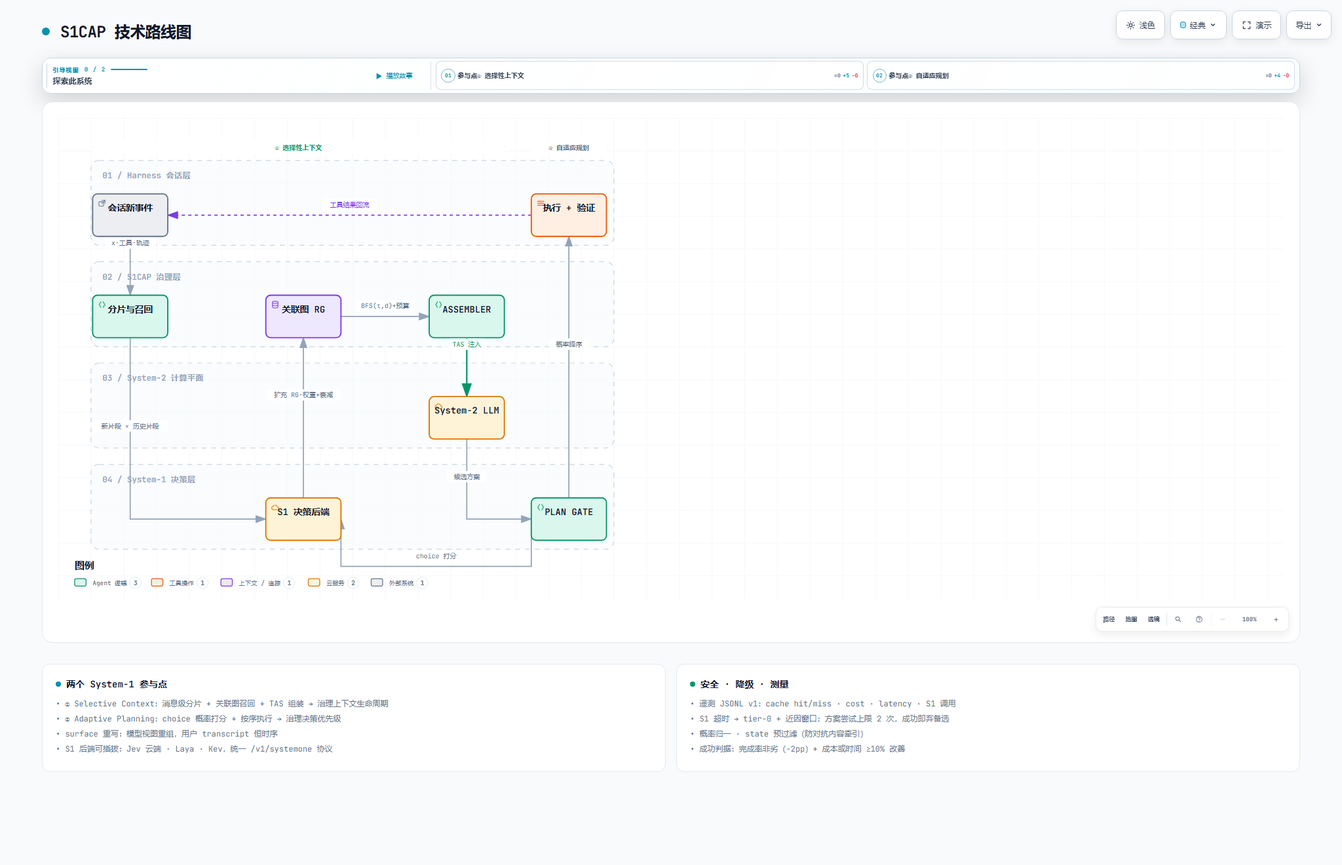
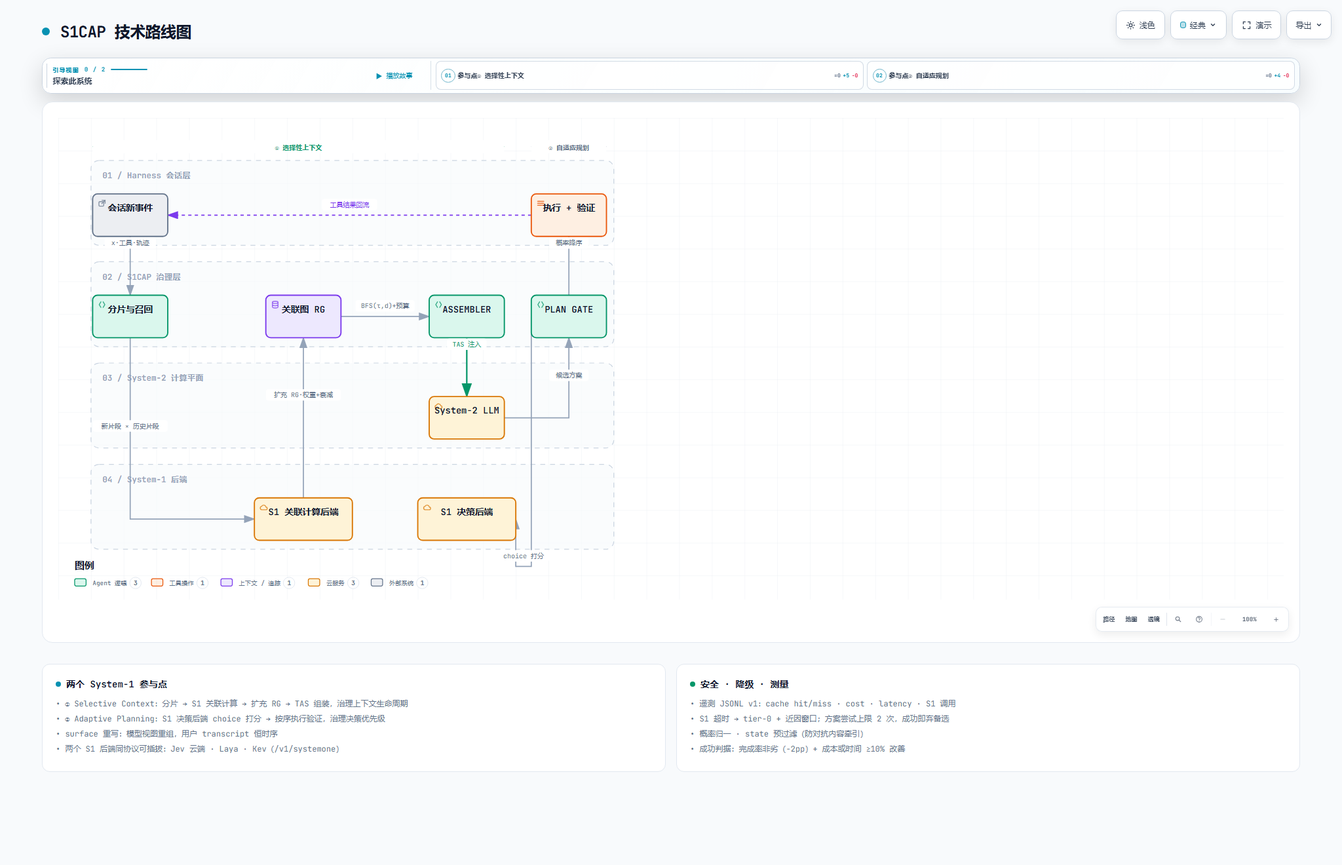
fix(figures): split System-1 into two backends per design
- S1 association backend (relevance scoring p x h_i -> RG expansion) and S1 decision backend (choice scoring for plan ranking) are now separate nodes
- edge flow: segrec -> S1 assoc -> RG expansion -> ASSEMBLER
- docs: name the two backends consistently (FORMULAS, PROPOSAL, AGENT_BRIEF headings)
- notation: attempt cap is M (=2), candidate plans m (<=3)

diff --git a/docs/figures/s1cap-technical-route.html b/docs/figures/s1cap-technical-route.html
@@ -4959,7 +4959,7 @@
       </div>
     </div>
 
-    <script id="archify-guided-views-data" type="application/json">[{"id":"selective-context","label":"参与点① 选择性上下文","focus":["x-event","segrec","rg","assembler","s1backend"],"note":"关联图召回与 TAS 组装——治理上下文生命周期"},{"id":"adaptive-planning","label":"参与点② 自适应规划","focus":["llm","plangate","s1backend","execute"],"note":"choice 概率打分与按序执行验证——治理决策优先级"}]</script>
+    <script id="archify-guided-views-data" type="application/json">[{"id":"selective-context","label":"参与点① 选择性上下文","focus":["x-event","segrec","s1assoc","rg","assembler"],"note":"关联图召回与 TAS 组装——治理上下文生命周期"},{"id":"adaptive-planning","label":"参与点② 自适应规划","focus":["llm","plangate","s1decide","execute"],"note":"choice 概率打分与按序执行验证——治理决策优先级"}]</script>
 
     <script id="archify-i18n-data" type="application/json">{"locale":"zh-CN","messages":{"viewer.kind.frontend":"前端","viewer.kind.backend":"后端","viewer.kind.database":"数据库","viewer.kind.cloud":"云服务","viewer.kind.security":"安全","viewer.kind.messagebus":"消息总线","viewer.kind.external":"外部系统","viewer.kind.neutral":"中性","viewer.kind.node":"节点","viewer.kind.start":"开始","viewer.kind.active":"活动","viewer.kind.waiting":"等待","viewer.kind.decision":"决策","viewer.kind.success":"成功","viewer.kind.failure":"失败","viewer.toolbar.actions":"图表操作","viewer.theme.toggle.title":"切换主题（T）","viewer.theme.toggle":"切换颜色主题","viewer.theme.dark":"深色","viewer.theme.light":"浅色","viewer.preset.choose.title":"选择视觉风格（S 循环切换）","viewer.preset.choose":"选择视觉风格","viewer.preset.style":"风格","viewer.preset.menu":"视觉风格","viewer.preset.identity":"视觉表达","viewer.preset.cycles":"S 循环切换","viewer.preset.classic":"经典","viewer.preset.classic.short":"经典","viewer.preset.classic.hint":"稳定的技术默认风格","viewer.preset.flow":"信号流","viewer.preset.flow.short":"流动","viewer.preset.flow.hint":"突出动态流向","viewer.preset.blueprint":"蓝图","viewer.preset.blueprint.hint":"工程评审","viewer.preset.editorial":"编辑风格","viewer.preset.editorial.hint":"适合发布与上线说明","viewer.preset.badge.signalFlow":"信号流","viewer.preset.badge.blueprint":"蓝图 / 修订 01","viewer.preset.badge.editorial":"编辑风格 / 现场笔记","viewer.preset.badge.editorialPlate":"ARCHIFY / 图版 04","viewer.preset.current":"当前视觉风格：{style}。选择视觉风格","viewer.motion.live":"动态","viewer.motion.still":"静态","viewer.motion.pause":"暂停动效","viewer.motion.resume":"恢复动效","viewer.motion.reduced":"已根据减少动态效果偏好暂停动效","viewer.motion.hidden":"页面不可见时已暂停动效","viewer.motion.yielding":"暂停动效；当前让位于{owner}","viewer.motion.yielding.title":"动态预览已启用 · 正在让位于{owner}","viewer.owner.story":"引导故事","viewer.owner.chapter":"当前章节","viewer.owner.chapterPreview":"章节差异预览","viewer.owner.handoff":"章节交接","viewer.owner.route":"路径探测","viewer.owner.lens":"语义透镜","viewer.owner.relationship":"关系预览","viewer.owner.intent":"意图追踪","viewer.owner.focus":"语义聚焦","viewer.owner.legend":"图例预览","viewer.owner.reader":"读者交互","viewer.present.enter":"进入演示模式","viewer.present.enter.title":"演示模式（F）","viewer.present.exit":"退出演示模式","viewer.present.exit.title":"退出演示模式（F 或 Escape）","viewer.present.present":"演示","viewer.present.exit.label":"退出","viewer.export.button":"导出","viewer.export.button.title":"导出图表（E）","viewer.export.diagram":"导出图表","viewer.export.menu":"导出","viewer.export.subtitle":"便携、整洁的输出","viewer.export.share":"分享","viewer.export.shareCard":"分享卡片","viewer.export.routeShareCard":"路径分享卡片","viewer.export.reachShareCard":"可达范围分享卡片","viewer.export.copyShareCard":"复制分享卡片","viewer.export.copyDiagram":"复制图表","viewer.export.clipboardPng":"复制 PNG 到剪贴板","viewer.export.raster":"位图","viewer.export.image":"图像","viewer.export.lossless":"无损图像","viewer.export.compact":"紧凑图像","viewer.export.modern":"现代图像格式","viewer.export.vectorMotion":"矢量与动效","viewer.export.vectorMotion.heading":"矢量与动效","viewer.export.editable":"可编辑矢量图","viewer.export.motion6s":"6 秒动效","viewer.export.unsupported":"当前浏览器不支持","viewer.export.clipboardUnsupported":"当前浏览器不支持写入图片剪贴板","viewer.export.clipboardUnsupported.period":"当前浏览器不支持写入图片剪贴板。","viewer.export.clipboardUnsupported.short":"此浏览器不支持写入图片剪贴板。","viewer.export.motionUnavailable":"当前浏览器无法录制动效","viewer.export.webmUnavailable":"当前浏览器不支持 WebM","viewer.export.failed":"导出失败：{message}","viewer.export.unknownVariant":"未知的分享卡片类型：{variant}","viewer.export.routeRequired":"请先追踪路径，再导出路径分享卡片","viewer.export.reachRequired":"请先追踪编写可达范围，再导出可达范围分享卡片","viewer.export.unknown":"未知错误","viewer.export.routeFailed":"路径分享卡片导出失败：{message}","viewer.export.reachFailed":"可达范围分享卡片导出失败：{message}","viewer.export.copyFailed":"复制失败：{message}","viewer.export.copiedPng":"已将 PNG 复制到剪贴板","viewer.export.copiedShare":"已复制分享卡片","viewer.export.downloadedShare":"已下载分享卡片","viewer.export.downloadedRoute":"已下载路径分享卡片","viewer.export.downloadedReach":"已下载可达范围分享卡片","viewer.export.downloadedWebm":"已下载 WebM","viewer.export.recording":"正在录制 6 秒动效…","viewer.export.card.routeSummary.one":"路径：{source} → {target} · {count} 个有向跳转","viewer.export.card.routeSummary.other":"路径：{source} → {target} · {count} 个有向跳转","viewer.export.card.reachSummary":"从{origin}开始的编写{direction} · {nodes} · {links} · 最深 {hops}","viewer.export.card.node.one":"{count} 个节点","viewer.export.card.node.other":"{count} 个节点","viewer.export.card.link.one":"{count} 条连接","viewer.export.card.link.other":"{count} 条连接","viewer.export.card.hop.one":"{count} 跳","viewer.export.card.hop.other":"{count} 跳","viewer.export.card.routeBadge":"ARCHIFY · 路径 · {hops}","viewer.export.card.reachBadge":"ARCHIFY · {direction}可达范围","viewer.export.card.defaultBadge":"ARCHIFY · {preset} · {theme}","viewer.export.direction.upstream":"上游","viewer.export.direction.downstream":"下游","viewer.export.error.canvasUnavailable":"无法为{label}使用画布","viewer.export.error.contextUnavailable":"无法为{label}创建二维画布上下文","viewer.export.error.toBlobUnavailable":"{label}无法使用 canvas.toBlob","viewer.export.error.toBlobNull":"{label}的 canvas.toBlob 未返回数据","viewer.export.error.variantsCombined":"无法同时组合多种分享卡片类型","viewer.export.error.viewerState":"分享卡片导出无法移除临时 Viewer 状态","viewer.export.error.routeState":"路径卡片导出无法安全保留已解析路径","viewer.export.error.reachState":"可达范围卡片导出无法安全保留编写的可达范围","viewer.export.error.webmRequirements":"WebM 动效导出需要追踪动画及浏览器 MediaRecorder 支持","viewer.export.error.mediaRecorder":"MediaRecorder 录制失败","viewer.export.error.emptyWebm":"MediaRecorder 生成了空的 WebM","viewer.export.error.webmBackground":"无法为 WebM 导出加载 SVG 背景","viewer.guided.region":"图表引导视图","viewer.guided.previous":"上一个引导视图","viewer.guided.previous.title":"上一个引导视图（[）","viewer.guided.next":"下一个引导视图","viewer.guided.next.title":"下一个引导视图（]）","viewer.guided.views":"引导视图","viewer.guided.explore":"探索此系统","viewer.guided.intro":"沿精选路径逐步查看，而不改变源图表。","viewer.guided.trail":"故事轨迹","viewer.guided.beat":"节点","viewer.guided.nextBeat":"下一步","viewer.guided.play":"播放引导故事","viewer.guided.play.title":"播放引导故事（P）","viewer.guided.pause":"暂停引导故事","viewer.guided.pause.title":"暂停引导故事（P）","viewer.guided.replay":"重播引导故事","viewer.guided.replay.title":"重播引导故事（P）","viewer.guided.playStory":"播放故事","viewer.guided.pauseStory":"暂停","viewer.guided.replayStory":"重播故事","viewer.guided.motionUnavailable":"静态模式下无法播放故事","viewer.guided.enableMotion":"切换为动态模式以播放引导故事","viewer.guided.selectBeatLink":"选择故事节点以复制其精确链接","viewer.guided.copyMoment":"复制此刻","viewer.guided.momentCopied":"已复制时刻链接","viewer.guided.momentCopyFailed":"无法复制故事时刻链接","viewer.guided.copied":"已复制","viewer.guided.copyFailed":"复制失败","viewer.guided.showAll":"显示全部","viewer.guided.showAll.aria":"显示完整图表","viewer.guided.chapters":"故事章节","viewer.guided.storyTrail":"{label}的故事轨迹：{count} 个节点","viewer.guided.chapter.open":"打开第 {index}/{total} 章：{label}，{count} 个停靠点","viewer.guided.chapter.current":"当前第 {index}/{total} 章：{label}，{count} 个停靠点","viewer.guided.chapter.selectedNodes":"已选择 {count} 个节点","viewer.guided.chapter.stops":"{count} 个停靠点","viewer.guided.chapter.stop.one":"{count} 个停靠点","viewer.guided.chapter.stop.other":"{count} 个停靠点","viewer.guided.chapter.current.title":"{label} — 当前章节，{count} 个停靠点","viewer.guided.chapter.delta.expanded":"{stay} 个保留，{enter} 个进入，{leave} 个离开","viewer.guided.chapter.delta.aria":"打开第 {index}/{total} 章：{label}。章节聚焦差异：{delta}","viewer.guided.chapter.delta.title":"{label} — 章节聚焦 {delta}","viewer.guided.handoff":"{from} → {to} · 经由{label}","viewer.guided.share.chapter":"章节 {index} / {total}","viewer.guided.share.initial":"章节 01 / 01","viewer.guided.share.default":"引导章节","viewer.guided.state.ready":"就绪","viewer.guided.state.playing":"播放中","viewer.guided.state.settled":"已完成","viewer.guided.state.paused":"已暂停","viewer.guided.state.pinned":"已固定","viewer.guided.state.still":"静态","viewer.guided.share.step":"步骤 {index} / {total} · {label}","viewer.guided.share.staticMoment":"{step} · 静态时刻","viewer.guided.share.complete":"{count} 个步骤已完成 · {note}","viewer.guided.share.settled":"路径已稳定，可供阅读。","viewer.guided.share.staticPath":"{count} 个步骤 · 静态路径","viewer.guided.share.ready":"{count} 个步骤 · 就绪","viewer.guided.share.aria":"{state}，第 {index}/{total} 章：{label}。{beat}。{route}","viewer.guided.beat.start":"节点 {index} / {total} · {label} · 起点","viewer.guided.beat.forward":"节点 {index} / {total} · {from} → {to}","viewer.guided.beat.reverse":"节点 {index} / {total} · {from} → {to} · 反向编写连接","viewer.guided.beat.multiple":"节点 {index} / {total} · {from} ⇄ {to} · {count} 条编写连接","viewer.guided.beat.group":"节点 {index} / {total} · {from} · {to} · 分组 · 无直接连接","viewer.guided.beat.aria.prefix":"故事节点 {index}/{total}：{label}。","viewer.guided.beat.aria.start":"起点。","viewer.guided.beat.aria.forward":"从{from}经一条正向编写关系到达。","viewer.guided.beat.aria.reverse":"从{from}出发；编写关系实际由{to}指向{from}。","viewer.guided.beat.aria.multiple":"从{from}经 {count} 条编写关系到达；不使用任意动效。","viewer.guided.beat.aria.group":"与{from}分组展示，没有直接编写关系。","viewer.guided.caption.start":"起点","viewer.guided.caption.grouped":"分组过渡 · 无直接编写连接","viewer.guided.caption.more":" +另外 {count} 条","viewer.guided.caption.reverse":"反向编写关系","viewer.guided.caption.relationships":"{count} 条编写关系","viewer.guided.caption.relationship":"编写关系","viewer.guided.caption.direction":"编写方向：{from} → {to}","viewer.guided.caption.starting":"编写起点","viewer.guided.beatLink":"复制当前故事时刻链接：第 {index}/{total} 个节点：{label}","viewer.guided.noStory":"此图表没有编写引导故事。","viewer.guide.eyebrow":"图表指南","viewer.guide.close":"关闭图表指南","viewer.guide.inspecting":"正在检查已编译语义","viewer.guide.actions":"图表探索操作","viewer.guide.find":"查找任意节点","viewer.guide.find.hint":"搜索标签、职责、类型和稳定 ID。","viewer.guide.route":"追踪路径","viewer.guide.route.aria":"追踪有向路径","viewer.guide.route.hint":"查看两个语义节点如何按编写方向连接。","viewer.guide.map":"查看完整系统","viewer.guide.map.hint":"打开带实时视口和稳定节点的语义雷达。","viewer.guide.lens":"比较语义类型","viewer.guide.lens.hint":"统计角色、显示流量并比较直接编写的连接。","viewer.guide.story":"播放引导故事","viewer.guide.story.hint":"浏览已编写的章节和真实关系。","viewer.guide.present":"进入演示模式","viewer.guide.present.hint":"让实时图表占满视口，同时不改变导出。","viewer.guide.shortcuts":"其他键盘快捷键","viewer.guide.shortcut.export":"导出","viewer.guide.shortcut.theme":"主题","viewer.guide.shortcut.style":"风格","viewer.guide.shortcut.reset":"重置","viewer.guide.shortcut.zoomIn":"放大","viewer.guide.shortcut.zoomOut":"缩小","viewer.guide.shortcut.close":"关闭","viewer.guide.facts":"{nodes} · {relationships} · {views}","viewer.guide.fact.node.one":"{count} 个语义节点","viewer.guide.fact.node.other":"{count} 个语义节点","viewer.guide.fact.relationship.one":"{count} 条关系","viewer.guide.fact.relationship.other":"{count} 条关系","viewer.guide.fact.view.one":"{count} 个引导视图","viewer.guide.fact.view.other":"{count} 个引导视图","viewer.guide.story.available.one":"浏览 {count} 个已编写章节及其真实关系。","viewer.guide.story.available.other":"浏览 {count} 个已编写章节及其真实关系。","viewer.guide.story.unavailable":"此图表没有编写引导故事。","viewer.guide.open":"打开图表指南","viewer.guide.noStory":"此图表没有编写引导故事。","viewer.finder.title":"查找节点","viewer.finder.close":"关闭节点查找器","viewer.finder.placeholder":"搜索标签或 ID","viewer.finder.search":"搜索图表节点","viewer.finder.results":"图表节点","viewer.finder.empty":"没有匹配的节点","viewer.finder.result.focus":"聚焦{label}","viewer.finder.result.routeStart":"选择{label}作为路径起点","viewer.finder.result.routeTarget":"选择{label}作为路径终点，{links}","viewer.finder.status.empty":"没有匹配的节点","viewer.finder.status.count.one":"{count} 个匹配节点","viewer.finder.status.count.other":"{count} 个匹配节点","viewer.finder.noun.nodes":"个节点","viewer.finder.link.one":"{count} 条连接","viewer.finder.link.other":"{count} 条连接","viewer.finder.result.focus.one":"聚焦{label}，{count} 条相关连接","viewer.finder.result.focus.other":"聚焦{label}，{count} 条相关连接","viewer.finder.status.filtered":"{visible}/{available} {noun}","viewer.finder.status.all":"{available} {noun}","viewer.passport.eyebrow":"语义护照","viewer.passport.metadata":"节点元数据","viewer.passport.evidence":"已验证的源代码证据","viewer.passport.verified":"已验证来源","viewer.passport.reach":"编写可达范围","viewer.passport.reach.trace":"追踪编写的可达性","viewer.passport.upstream":"上游","viewer.passport.downstream":"下游","viewer.passport.upstream.trace":"追踪上游编写可达性","viewer.passport.downstream.trace":"追踪下游编写可达性","viewer.passport.close":"关闭语义护照","viewer.passport.copy":"复制链接","viewer.passport.copy.focus":"复制聚焦节点的链接","viewer.passport.relations":"关系","viewer.passport.relations.show":"显示关联关系","viewer.passport.relations.hide":"隐藏关联关系","viewer.passport.relations.list":"关联关系","viewer.passport.copyRelation":"复制关系","viewer.passport.copyNode":"复制节点","viewer.passport.copyPinned":"复制固定关系的链接","viewer.passport.copySource":"复制来源节点的链接","viewer.passport.copy.focused.success":"已复制聚焦节点链接","viewer.passport.copy.pinned.success":"已复制固定关系链接","viewer.passport.copy.focused.failed":"无法复制聚焦节点链接","viewer.passport.copy.pinned.failed":"无法复制固定关系链接","viewer.passport.relationship.none":"没有关联关系","viewer.passport.relationship.count.one":"{count} 条关系","viewer.passport.relationship.count.other":"{count} 条关系","viewer.passport.relationship.show.one":"显示 {count} 条关联关系","viewer.passport.relationship.show.other":"显示 {count} 条关联关系","viewer.passport.relationship.summary":"{out} 条出向 · {in} 条入向{loops}","viewer.passport.relationship.loops":" · {count} 条自环","viewer.passport.relationship.explorer":"直接关系浏览器","viewer.passport.relationship.help":"使用方向键浏览关系。按 Enter 或空格键固定详情；按 Escape 清除。","viewer.passport.relationship.loopsBack":"回环","viewer.passport.relationship.connectsTo":"连接到","viewer.passport.relationship.connectsFrom":"连接自","viewer.passport.relationship.pinned":"已固定关系 · {from} → {to} · {label}","viewer.passport.relationship.inspect":"检查第 {index}/{total} 条关系：{from} 到 {to}，{label}。按 Enter 查看详情。","viewer.passport.relationship.group.out":"出向","viewer.passport.relationship.group.in":"入向","viewer.passport.relationship.group.loop":"自环","viewer.passport.relationship.row":"{group}：{relationship}，{neighbor}","viewer.passport.relationship.direction.out":"出 →","viewer.passport.relationship.direction.in":"← 入","viewer.passport.relationship.direction.loop":"自环","viewer.passport.sourceCount.one":"{count} 个已验证来源引用","viewer.passport.sourceCount.other":"{count} 个已验证来源引用","viewer.passport.sourceMarker":"来源","viewer.passport.beacon.one":"{count} 个已验证来源；聚焦此节点以检查","viewer.passport.beacon.other":"{count} 个已验证来源；聚焦此节点以检查","viewer.passport.repository.open":"打开已验证的仓库修订版本 {revision}","viewer.passport.source.open":"打开修订版本 {revision} 中已验证的来源 {path}","viewer.passport.source.openLink":"打开 ↗","viewer.passport.reach.upstream.one":"追踪 {count} 个上游编写节点","viewer.passport.reach.upstream.other":"追踪 {count} 个上游编写节点","viewer.passport.reach.downstream.one":"追踪 {count} 个下游编写节点","viewer.passport.reach.downstream.other":"追踪 {count} 个下游编写节点","viewer.passport.reach.noUpstream":"没有上游编写节点","viewer.passport.reach.noDownstream":"没有下游编写节点","viewer.passport.reach.status":"{direction} · {nodes} 个节点 · {links} 条连接 · 最深 {hops} 跳","viewer.route.eyebrow":"路径探测","viewer.route.start":"选择起点节点","viewer.route.start.find":"查找起点","viewer.route.start.find.aria":"查找路径起点","viewer.route.copy":"复制链接","viewer.route.copy.aria":"复制已追踪路径的链接","viewer.route.clear":"清除","viewer.route.clear.aria":"清除路径探测","viewer.route.traced":"已追踪路径","viewer.route.pickTwo":"在图表中选择两个语义节点","viewer.route.pickOne":"在图表中选择一个语义节点","viewer.route.controls":"路径旅程控制","viewer.route.previous":"上一个路径位置","viewer.route.play":"播放路径旅程","viewer.route.pause":"暂停路径旅程","viewer.route.replay":"重播路径旅程","viewer.route.next":"下一个路径位置","viewer.route.journey":"旅程","viewer.route.pause.label":"暂停","viewer.route.replay.label":"重播","viewer.route.overview":"总览","viewer.route.overview.aria":"显示完整路径总览","viewer.route.instructions":"先选择来源，再选择目标；方向很重要。","viewer.route.destination":"选择从{label}出发的目标","viewer.route.destination.find":"查找目标","viewer.route.destination.find.aria":"查找可达的路径目标","viewer.route.differentDestination":"选择其他目标","viewer.route.distinct":"一条路径需要两个不同的语义节点。","viewer.route.unreachable":"没有通往{label}的有向路径","viewer.route.unreachable.detail":"从{source}无法到达{target}。请选择高亮的目标。","viewer.route.start.instructions":"选择来源。下一步只会显示有向可达的目标。","viewer.route.copy.success":"已复制路径链接","viewer.route.copy.failed":"无法复制路径链接","viewer.route.position":"路径位置 {index}/{total}：{label}","viewer.route.step":"第 {index}/{total} 步 · {phase} · {label}","viewer.route.motionRequired":"自动旅程需要动态模式","viewer.route.trigger.clear":"清除已追踪路径","viewer.route.overview.status":"{nodes} · {hops} · 最短编写路径","viewer.route.overview.node.one":"{count} 个节点","viewer.route.overview.node.other":"{count} 个节点","viewer.route.overview.hop.one":"{count} 个有向跳转","viewer.route.overview.hop.other":"{count} 个有向跳转","viewer.route.phase.playing":"播放中","viewer.route.phase.complete":"已完成","viewer.route.phase.inspecting":"检查中","viewer.route.destination.count.one":"有 {count} 个有向目标可用。请选择高亮节点。","viewer.route.destination.count.other":"有 {count} 个有向目标可用。请选择高亮节点。","viewer.route.noOutgoing":"此处没有可用的出向路径。请清除后选择其他来源。","viewer.route.result.title":"{source} 到 {target}","viewer.route.finder.source.title":"选择路径起点","viewer.route.finder.source.placeholder":"搜索路径来源","viewer.route.finder.source.empty":"没有匹配的路径来源","viewer.route.finder.source.results":"可作为路径起点的节点","viewer.route.finder.source.noun":"个路径来源","viewer.route.finder.source.badge":"起点","viewer.route.finder.target.title":"从{label}出发的目标","viewer.route.finder.target.placeholder":"搜索可达目标","viewer.route.finder.target.empty":"没有匹配的可达目标","viewer.route.finder.target.results":"可达路径目标","viewer.route.finder.target.noun":"个可达目标","viewer.route.hop.one":"{count} 跳","viewer.route.hop.other":"{count} 跳","viewer.lens.eyebrow":"语义透镜","viewer.lens.title":"比较系统角色","viewer.lens.close":"关闭语义透镜","viewer.lens.instruction":"最多选择两种语义类型。选择一种可显示其真实流量；选择两种只比较直接编写的关系。","viewer.lens.kinds":"语义类型","viewer.lens.choose":"选择一种类型以检查其节点和相连关系。","viewer.lens.copy":"复制语义透镜链接","viewer.lens.clear":"清除语义透镜","viewer.lens.open":"打开语义透镜","viewer.lens.openActive":"打开当前语义透镜","viewer.lens.legend":"语义图例","viewer.lens.legend.inspect.one":"检查{label}，{count} 个节点","viewer.lens.legend.inspect.other":"检查{label}，{count} 个节点","viewer.lens.kind.count.one":"{label}，{count} 个节点","viewer.lens.kind.count.other":"{label}，{count} 个节点","viewer.lens.compare.one":"{first} → {second}：{forward} · {second} → {first}：{reverse} · 共 {count} 条直接关系","viewer.lens.compare.other":"{first} → {second}：{forward} · {second} → {first}：{reverse} · 共 {count} 条直接关系","viewer.lens.single":"{nodes} · {relationships} · 已连接节点保持可见","viewer.lens.node.one":"{count} 个{label}节点","viewer.lens.node.other":"{count} 个{label}节点","viewer.lens.relationship.one":"{count} 条相连关系","viewer.lens.relationship.other":"{count} 条相连关系","viewer.radar.title":"语义雷达","viewer.radar.building":"正在构建总览","viewer.radar.openFull":"打开完整语义雷达","viewer.radar.open":"打开雷达","viewer.radar.close":"关闭语义雷达","viewer.radar.surface":"图表总览。点击节点进行聚焦，或使用方向键平移。","viewer.radar.click":"点击节点","viewer.radar.drag":"拖动平移","viewer.radar.space":"语义雷达需要更多地图可见空间。","viewer.radar.nodes":"语义图表雷达节点","viewer.radar.focus":"从语义雷达聚焦{label}","viewer.radar.status":"{count} 个节点 · {viewport}","viewer.radar.fullMap":"{count} 个节点 · 完整地图","viewer.radar.compacted":"已收紧雷达，避免遮挡语义护照或地图控件。","viewer.radar.cancelWaiting":"取消等待更多地图空间的语义雷达","viewer.radar.needsSpace":"语义雷达需要更多可见地图空间","viewer.radar.viewport.full":"完整地图","viewer.radar.viewport.width":"宽度 {percent}%","viewer.radar.viewport.scale":"视口 {percent}%","viewer.nav.controls":"图表视图控制","viewer.nav.route":"追踪有向路径","viewer.nav.route.title":"追踪路径（R）","viewer.nav.route.short":"路径","viewer.nav.radar":"打开语义雷达","viewer.nav.radar.title":"语义雷达（M）","viewer.nav.radar.short":"地图","viewer.nav.lens":"打开语义透镜","viewer.nav.lens.title":"语义透镜（L）","viewer.nav.lens.short":"透镜","viewer.nav.find":"查找节点","viewer.nav.find.title":"查找节点（/）","viewer.nav.guide":"打开图表指南","viewer.nav.guide.title":"图表指南（?）","viewer.nav.zoomOut":"缩小","viewer.nav.zoomOut.title":"缩小（-）","viewer.nav.reset":"重置图表视图","viewer.nav.reset.title":"重置视图（0）","viewer.nav.read":"阅读","viewer.nav.zoomIn":"放大","viewer.nav.zoomIn.title":"放大（+）","viewer.nav.camera":"{hint}。重置图表视图","viewer.nav.camera.title":"{semantic}{hint} · 重置视图（0）","viewer.nav.camera.semantic":"语义相机已启用 · ","viewer.nav.level.map":"概览","viewer.nav.level.read":"阅读","viewer.nav.level.full":"完整","viewer.nav.level.auto":"自动","viewer.nav.detail.map":"放大以显示关系标签和节点上下文","viewer.nav.detail.read":"再次放大以显示标签和注释","viewer.nav.detail.full":"完整图表详情","viewer.intent.summary":"{label}。{out} 条出向，{in} 条入向{loops}。共 {total} 条连接。按 Enter 查看详情。","viewer.intent.loops":"，{count} 条自环","viewer.common.copied":"已复制","viewer.common.copyFailed":"复制失败","viewer.common.copyLink":"复制链接","viewer.common.clear":"清除","viewer.common.close":"关闭"}}</script>
     <div class="guided-views no-print" id="guided-views" hidden aria-label="图表引导视图">
@@ -5040,7 +5040,7 @@
         <text x="54" y="322" class="t-dim" font-size="10" font-weight="600">03 / System-2 计算平面</text>
 
         <rect data-graph-role="structural-frame" data-composition-frame-kind="lane" data-composition-frame-id="lane-3" x="40" y="424" width="640" height="104" rx="10" class="c-lane" stroke-width="1"/>
-        <text x="54" y="446" class="t-dim" font-size="10" font-weight="600">04 / System-1 决策层</text>
+        <text x="54" y="446" class="t-dim" font-size="10" font-weight="600">04 / System-1 后端</text>
 
         <!-- Phase headers -->
         <line x1="42" y1="35" x2="546" y2="35" class="a-emphasis" stroke-width="1.1"/>
@@ -5055,14 +5055,14 @@
 
         <!-- Edge paths -->
         <path data-edge-from="x-event" data-edge-to="segrec" data-edge-label="x·工具·轨迹" data-edge-key="0" data-edge-id="e1" data-composition-points="88,145;88,166;88,166;88,217" d="M 88 145 L 88 166 L 88 166 L 88 217" class="a-default" stroke-width="1.4" marker-end="url(#arrowhead)"/>
-        <path data-edge-from="segrec" data-edge-to="s1backend" data-edge-label="新片段 × 历史片段" data-edge-key="1" data-edge-id="e2" data-composition-points="88,269;88,491;254,491" d="M 88 269 L 88 491 L 254 491" class="a-default" stroke-width="1.4" marker-end="url(#arrowhead)"/>
+        <path data-edge-from="segrec" data-edge-to="s1assoc" data-edge-label="新片段 × 历史片段" data-edge-key="1" data-edge-id="e2" data-composition-points="88,269;88,491;240,491" d="M 88 269 L 88 491 L 240 491" class="a-default" stroke-width="1.4" marker-end="url(#arrowhead)"/>
         <path data-edge-from="rg" data-edge-to="assembler" data-edge-label="BFS(τ,d)+预算" data-edge-key="2" data-edge-id="e3" data-composition-points="346,243;454,243" d="M 346 243 L 454 243" class="a-default" stroke-width="1.4" marker-end="url(#arrowhead)"/>
         <path data-edge-from="assembler" data-edge-to="llm" data-edge-label="TAS 注入" data-edge-key="3" data-edge-id="e4" data-composition-points="500,269;500,290;500,290;500,341" d="M 500 269 L 500 290 L 500 290 L 500 341" class="a-emphasis" stroke-width="1.8" marker-end="url(#arrowhead-emphasis)"/>
-        <path data-edge-from="llm" data-edge-to="plangate" data-edge-label="候选方案" data-edge-key="4" data-edge-id="e5" data-composition-points="500,393;500,491;579,491" d="M 500 393 L 500 491 L 579 491" class="a-default" stroke-width="1.4" marker-end="url(#arrowhead)"/>
-        <path data-edge-from="plangate" data-edge-to="s1backend" data-edge-label="choice 打分" data-edge-key="5" data-edge-id="e6" data-composition-points="579,491;579,549;346,549;346,491" d="M 579 491 L 579 549 L 346 549 L 346 491" class="a-default" stroke-width="1.4" marker-end="url(#arrowhead)"/>
-        <path data-edge-from="plangate" data-edge-to="execute" data-edge-label="概率降序" data-edge-key="6" data-edge-id="e7" data-composition-points="625,465;625,290;625,290;625,145" d="M 625 465 L 625 290 L 625 290 L 625 145" class="a-default" stroke-width="1.4" marker-end="url(#arrowhead)"/>
+        <path data-edge-from="llm" data-edge-to="plangate" data-edge-label="候选方案" data-edge-key="4" data-edge-id="e5" data-composition-points="546,367;625,367;625,269" d="M 546 367 L 625 367 L 625 269" class="a-default" stroke-width="1.4" marker-end="url(#arrowhead)"/>
+        <path data-edge-from="plangate" data-edge-to="s1decide" data-edge-label="choice 打分" data-edge-key="5" data-edge-id="e6" data-composition-points="579,243;579,549;560,549;560,491" d="M 579 243 L 579 549 L 560 549 L 560 491" class="a-default" stroke-width="1.4" marker-end="url(#arrowhead)"/>
+        <path data-edge-from="plangate" data-edge-to="execute" data-edge-label="概率降序" data-edge-key="6" data-edge-id="e7" data-composition-points="625,217;625,166;625,166;625,145" d="M 625 217 L 625 166 L 625 166 L 625 145" class="a-default" stroke-width="1.4" marker-end="url(#arrowhead)"/>
         <path data-edge-from="execute" data-edge-to="x-event" data-edge-label="工具结果回流" data-edge-key="7" data-edge-id="e8" data-composition-points="579,119;134,119" d="M 579 119 L 134 119" class="a-dashed" stroke-width="1.4" marker-end="url(#arrowhead-dashed)"/>
-        <path data-edge-from="s1backend" data-edge-to="rg" data-edge-label="扩充 RG·权重+衰减" data-edge-key="8" data-edge-id="e9" data-composition-points="300,465;300,352;300,352;300,269" d="M 300 465 L 300 352 L 300 352 L 300 269" class="a-default" stroke-width="1.4" marker-end="url(#arrowhead)"/>
+        <path data-edge-from="s1assoc" data-edge-to="rg" data-edge-label="扩充 RG·权重+衰减" data-edge-key="8" data-edge-id="e9" data-composition-points="300,465;300,352;300,352;300,269" d="M 300 465 L 300 352 L 300 352 L 300 269" class="a-default" stroke-width="1.4" marker-end="url(#arrowhead)"/>
 
         <!-- Nodes -->
         <g id="node-x-event" data-node-id="x-event" data-node-label="会话新事件" tabindex="0" role="button" aria-label="聚焦会话新事件，Harness 会话层 › ① 选择性上下文" aria-pressed="false" data-node-kind="external" data-node-context="Harness 会话层 › ① 选择性上下文">
@@ -5117,14 +5117,14 @@
           <text data-node-label="" x="500" y="362" class="t-primary" font-size="11" font-weight="600" text-anchor="middle">System-2 LLM</text>
         </g>
 
-        <g id="node-plangate" data-node-id="plangate" data-node-label="PLAN GATE" tabindex="0" role="button" aria-label="聚焦PLAN GATE，System-1 决策层 › ② 自适应规划" aria-pressed="false" data-node-kind="backend" data-node-context="System-1 决策层 › ② 自适应规划">
-          <title>PLAN GATE · System-1 决策层 › ② 自适应规划</title>
-          <rect x="579" y="465" width="92" height="52" rx="6" class="c-mask"/>
-          <rect x="579" y="465" width="92" height="52" rx="6" class="c-backend" stroke-width="1.5"/>
-          <g aria-hidden="true" data-semantic-sigil="backend" class="semantic-sigil s-backend" transform="translate(585 471) scale(0.6875)">
+        <g id="node-plangate" data-node-id="plangate" data-node-label="PLAN GATE" tabindex="0" role="button" aria-label="聚焦PLAN GATE，S1CAP 治理层 › ② 自适应规划" aria-pressed="false" data-node-kind="backend" data-node-context="S1CAP 治理层 › ② 自适应规划">
+          <title>PLAN GATE · S1CAP 治理层 › ② 自适应规划</title>
+          <rect x="579" y="217" width="92" height="52" rx="6" class="c-mask"/>
+          <rect x="579" y="217" width="92" height="52" rx="6" class="c-backend" stroke-width="1.5"/>
+          <g aria-hidden="true" data-semantic-sigil="backend" class="semantic-sigil s-backend" transform="translate(585 223) scale(0.6875)">
             <path d="M6 3 3 8l3 5M10 3l3 5-3 5"/>
           </g>
-          <text data-node-label="" x="625" y="486" class="t-primary" font-size="11" font-weight="600" text-anchor="middle">PLAN GATE</text>
+          <text data-node-label="" x="625" y="238" class="t-primary" font-size="11" font-weight="600" text-anchor="middle">PLAN GATE</text>
         </g>
 
         <g id="node-execute" data-node-id="execute" data-node-label="执行 + 验证" tabindex="0" role="button" aria-label="聚焦执行 + 验证，Harness 会话层 › ② 自适应规划" aria-pressed="false" data-node-kind="messagebus" data-node-context="Harness 会话层 › ② 自适应规划">
@@ -5140,14 +5140,24 @@
           <text data-node-label="" x="625" y="114" class="t-primary" font-size="11" font-weight="600" text-anchor="middle">执行 + 验证</text>
         </g>
 
-        <g id="node-s1backend" data-node-id="s1backend" data-node-label="S1 决策后端" tabindex="0" role="button" aria-label="聚焦S1 决策后端，System-1 决策层 › ① 选择性上下文" aria-pressed="false" data-node-kind="cloud" data-node-context="System-1 决策层 › ① 选择性上下文">
-          <title>S1 决策后端 · System-1 决策层 › ① 选择性上下文</title>
-          <rect x="254" y="465" width="92" height="52" rx="6" class="c-mask"/>
-          <rect x="254" y="465" width="92" height="52" rx="6" class="c-cloud" stroke-width="1.5"/>
-          <g aria-hidden="true" data-semantic-sigil="cloud" class="semantic-sigil s-cloud" transform="translate(260 471) scale(0.6875)">
+        <g id="node-s1assoc" data-node-id="s1assoc" data-node-label="S1 关联计算后端" tabindex="0" role="button" aria-label="聚焦S1 关联计算后端，System-1 后端 › ① 选择性上下文" aria-pressed="false" data-node-kind="cloud" data-node-context="System-1 后端 › ① 选择性上下文">
+          <title>S1 关联计算后端 · System-1 后端 › ① 选择性上下文</title>
+          <rect x="240" y="465" width="120" height="52" rx="6" class="c-mask"/>
+          <rect x="240" y="465" width="120" height="52" rx="6" class="c-cloud" stroke-width="1.5"/>
+          <g aria-hidden="true" data-semantic-sigil="cloud" class="semantic-sigil s-cloud" transform="translate(246 471) scale(0.6875)">
             <path d="M4.3 12.5h7.3a2.4 2.4 0 0 0 .2-4.8 4 4 0 0 0-7.5-1.3A3.1 3.1 0 0 0 4.3 12.5Z"/>
           </g>
-          <text data-node-label="" x="300" y="486" class="t-primary" font-size="11" font-weight="600" text-anchor="middle">S1 决策后端</text>
+          <text data-node-label="" x="300" y="486" class="t-primary" font-size="11" font-weight="600" text-anchor="middle">S1 关联计算后端</text>
+        </g>
+
+        <g id="node-s1decide" data-node-id="s1decide" data-node-label="S1 决策后端" tabindex="0" role="button" aria-label="聚焦S1 决策后端，System-1 后端 › ① 选择性上下文" aria-pressed="false" data-node-kind="cloud" data-node-context="System-1 后端 › ① 选择性上下文">
+          <title>S1 决策后端 · System-1 后端 › ① 选择性上下文</title>
+          <rect x="440" y="465" width="120" height="52" rx="6" class="c-mask"/>
+          <rect x="440" y="465" width="120" height="52" rx="6" class="c-cloud" stroke-width="1.5"/>
+          <g aria-hidden="true" data-semantic-sigil="cloud" class="semantic-sigil s-cloud" transform="translate(446 471) scale(0.6875)">
+            <path d="M4.3 12.5h7.3a2.4 2.4 0 0 0 .2-4.8 4 4 0 0 0-7.5-1.3A3.1 3.1 0 0 0 4.3 12.5Z"/>
+          </g>
+          <text data-node-label="" x="500" y="486" class="t-primary" font-size="11" font-weight="600" text-anchor="middle">S1 决策后端</text>
         </g>
 
         <!-- Edge labels -->
@@ -5155,7 +5165,7 @@
           <rect x="56.6" y="146" width="62.8" height="14" rx="3" class="c-mask"/>
           <text x="88" y="156" class="t-muted" font-size="8" text-anchor="middle">x·工具·轨迹</text>
         </g>
-        <g data-detail="context" data-edge-from="segrec" data-edge-to="s1backend" data-edge-label="新片段 × 历史片段" data-edge-key="1" data-edge-id="e2">
+        <g data-detail="context" data-edge-from="segrec" data-edge-to="s1assoc" data-edge-label="新片段 × 历史片段" data-edge-key="1" data-edge-id="e2">
           <rect x="42.2" y="370" width="91.6" height="14" rx="3" class="c-mask"/>
           <text x="88" y="380" class="t-muted" font-size="8" text-anchor="middle">新片段 × 历史片段</text>
         </g>
@@ -5168,22 +5178,22 @@
           <text x="500" y="280" class="t-backend" font-size="8" text-anchor="middle">TAS 注入</text>
         </g>
         <g data-detail="context" data-edge-from="llm" data-edge-to="plangate" data-edge-label="候选方案" data-edge-key="4" data-edge-id="e5">
-          <rect x="475.8" y="432" width="48.4" height="14" rx="3" class="c-mask"/>
-          <text x="500" y="442" class="t-muted" font-size="8" text-anchor="middle">候选方案</text>
+          <rect x="600.8" y="308" width="48.4" height="14" rx="3" class="c-mask"/>
+          <text x="625" y="318" class="t-muted" font-size="8" text-anchor="middle">候选方案</text>
         </g>
-        <g data-detail="context" data-edge-from="plangate" data-edge-to="s1backend" data-edge-label="choice 打分" data-edge-key="5" data-edge-id="e6">
-          <rect x="431.1" y="529" width="62.8" height="14" rx="3" class="c-mask"/>
-          <text x="462.5" y="539" class="t-muted" font-size="8" text-anchor="middle">choice 打分</text>
+        <g data-detail="context" data-edge-from="plangate" data-edge-to="s1decide" data-edge-label="choice 打分" data-edge-key="5" data-edge-id="e6">
+          <rect x="538.1" y="529" width="62.8" height="14" rx="3" class="c-mask"/>
+          <text x="569.5" y="539" class="t-muted" font-size="8" text-anchor="middle">choice 打分</text>
         </g>
         <g data-detail="context" data-edge-from="plangate" data-edge-to="execute" data-edge-label="概率降序" data-edge-key="6" data-edge-id="e7">
-          <rect x="600.8" y="270" width="48.4" height="14" rx="3" class="c-mask"/>
-          <text x="625" y="280" class="t-muted" font-size="8" text-anchor="middle">概率降序</text>
+          <rect x="600.8" y="146" width="48.4" height="14" rx="3" class="c-mask"/>
+          <text x="625" y="156" class="t-muted" font-size="8" text-anchor="middle">概率降序</text>
         </g>
         <g data-detail="context" data-edge-from="execute" data-edge-to="x-event" data-edge-label="工具结果回流" data-edge-key="7" data-edge-id="e8">
           <rect x="322.7" y="99" width="67.6" height="14" rx="3" class="c-mask"/>
           <text x="356.5" y="109" class="t-database" font-size="8" text-anchor="middle">工具结果回流</text>
         </g>
-        <g data-detail="context" data-edge-from="s1backend" data-edge-to="rg" data-edge-label="扩充 RG·权重+衰减" data-edge-key="8" data-edge-id="e9">
+        <g data-detail="context" data-edge-from="s1assoc" data-edge-to="rg" data-edge-label="扩充 RG·权重+衰减" data-edge-key="8" data-edge-id="e9">
           <rect x="254.2" y="332" width="91.6" height="14" rx="3" class="c-mask"/>
           <text x="300" y="342" class="t-muted" font-size="8" text-anchor="middle">扩充 RG·权重+衰减</text>
         </g>
@@ -5404,10 +5414,10 @@
           <h3>两个 System-1 参与点</h3>
         </div>
         <ul>
-          <li>&bull; ① Selective Context：消息级分片 + 关联图召回 + TAS 组装 → 治理上下文生命周期</li>
-          <li>&bull; ② Adaptive Planning：choice 概率打分 + 按序执行 → 治理决策优先级</li>
+          <li>&bull; ① Selective Context：分片 → S1 关联计算 → 扩充 RG → TAS 组装，治理上下文生命周期</li>
+          <li>&bull; ② Adaptive Planning：S1 决策后端 choice 打分 → 按序执行验证，治理决策优先级</li>
           <li>&bull; surface 重写：模型视图重组，用户 transcript 恒时序</li>
-          <li>&bull; S1 后端可插拔：Jev 云端 · Laya · Kev，统一 /v1/systemone 协议</li>
+          <li>&bull; 两个 S1 后端同协议可插拔：Jev 云端 · Laya · Kev（/v1/systemone）</li>
         </ul>
       </div>
 

diff --git a/docs/PROPOSAL.zh.md b/docs/PROPOSAL.zh.md
@@ -51,14 +51,14 @@
 
 ### 3.1 总体架构：System-1 控制平面 / System-2 计算平面
 
-廉价决策模型作为**治理层**（S1CAP 控制平面）运行在 harness 与 LLM 之间，LLM 本体不做任何修改。组件：SEGMENTER（分片）→ S1 关联计算（新片段 × 历史片段，扩充 RG）→ RG STORE（SQLite 关联图）→ ASSEMBLER（预算内 BFS 选择 + TAS 布局）→ PLAN GATE（choice 预排序 + 尝试控制）→ TELEMETRY（版本化 JSONL 遥测）。适配层：DSH 一等插件（`dsh-s1cap`）+ OpenAI-compatible 代理（可移植到 opencode / Claude Code / pi）。
+廉价决策模型作为**治理层**（S1CAP 控制平面）运行在 harness 与 LLM 之间，LLM 本体不做任何修改。组件：SEGMENTER（分片）→ S1 关联计算（新片段 × 历史片段，扩充 RG）→ RG STORE（SQLite 关联图）→ ASSEMBLER（预算内 BFS 选择 + TAS 布局）→ PLAN GATE（S1 决策后端 choice 排序 + 尝试控制）→ TELEMETRY（版本化 JSONL 遥测）。适配层：DSH 一等插件（`dsh-s1cap`）+ OpenAI-compatible 代理（可移植到 opencode / Claude Code / pi）。
 
 ### 3.2 相对初版设计的四个关键修正
 
 1. **两级召回替代"Laya 直接两两打分"**。核实结论：Laya 基座**零样本接近随机**（0.362 vs 随机 0.318；微调后 0.766），且 >20 选项会失败。因此：tier-0 元数据边（免费）→ tier-1 候选生成（本地嵌入 ANN，或 S1 noul 批量问询）→ tier-2 惰性验证（仅对可能进入组装的边做 score 精排）。默认云端 Jev 时 S1 成本为噪声级（每会话约 $0.04）；本地路径用 EdgeJev（322M INT8，324MB，4 核 vCPU 15.6ms/决策）或 M3 微调后的 laya-typed-decisions。
 2. **"x倒置"更正为忠实的 TAS 移植**。论文 T 的可迁移原则是"晚发现的状态信息应在下一轮 pass 中先于上下文可用，**问题永远在最后**"。组装布局：`[pinned（system+工具schema，缓存稳定前缀）| T（状态代理：序列化推理轨迹+任务简报，≤8k 字符，append-only，按任务更新）| 召回块（按 w_eff 降序，最强者在前——Lost in the Middle 的 U 型）| 近尾 K 轮原文 | x+当前状态快照]`。
 3. **缓存经济学作为一等公民**。命中价是未中的 1/50（DeepSeek 峰时），因此：(a) pinned 前缀永不被重排；(b) T 按任务边界更新（`perTask` 默认，`perTurn` 可选）；(c) **H3 假设显式化**——TAS 重排对命中率的净影响必须逐调用测量（引用 arXiv:2601.06007 的结论：缓存感知组装优于朴素缓存）。
-4. **方案闸门加安全栏**。Jev 的概率**不保证归一**（文档示例 P+¬P=1.19）→ 服务端归一；决策模型可被对抗内容牵引 → 传入 S1 的 state 做预过滤（剥离超长代码块/URL）；尝试上限 m=2；置信度 <0.5 时弃权、回退 LLM 自身顺序。
+4. **方案闸门加安全栏**。Jev 的概率**不保证归一**（文档示例 P+¬P=1.19）→ 服务端归一；决策模型可被对抗内容牵引 → 传入 S1 的 state 做预过滤（剥离超长代码块/URL）；尝试上限 M=2（候选方案 m ≤ 3）；置信度 <0.5 时弃权、回退 LLM 自身顺序。
 
 ### 3.3 DSH 原生红利（核实自本机安装与社区插件）
 

diff --git a/docs/AGENT_BRIEF.md b/docs/AGENT_BRIEF.md
@@ -222,7 +222,7 @@ All knobs map 1:1 to plugin config (`cordis.patch.yml` → `/s1 config` UI): `re
 - `system/message` node 0 + tool schemas → **PINNED**, excluded from the graph.
 - Segment granularity is message-level — never token-level (the user's "语段" requirement).
 
-### 5.2 Association-graph construction (per new segment p)
+### 5.2 Association-graph construction (per new segment p) — S1 association backend
 
 - **Tier 0 (metadata, free):** edges to segments sharing `taskTag`, same tool family, reply-to chain; fixed weight 0.6.
 - **Tier 1 (candidates):** mode `embed` — local embedding + ANN top-k (k=32) cosine; or mode `s1` — one `/v1/systemone` call: `state = p` (≤512 tok), `questions = {"rel_<i>": noul "Does this segment discuss the same task, entity, or topic as the state?"}` over candidate ids, ≤20 questions per call (**context-rot guard**), normalized server-side.
@@ -255,12 +255,12 @@ All knobs map 1:1 to plugin config (`cordis.patch.yml` → `/s1 config` UI): `re
 - **Cache-awareness:** the pinned prefix is never reordered; T grows append-only; `updatePolicy: perTask` keeps T byte-stable within a task so the cache invalidation of `[T | recalled | tail | x]` happens at task boundaries, not per turn. The residual cache penalty is *measured*, not assumed (H3).
 - **DSH realization:** model-only rewrite via `surfaceOp {op:'replace'}` — the user-facing transcript is never touched. Non-DSH: the proxy rewrites the messages array before forwarding.
 
-### 5.4 Plan gate (factor S1G on)
+### 5.4 Plan gate (factor S1G on) — S1 decision backend
 
 - Trigger: assistant emits a tool-call batch; if `planGate.on` and >1 plausible plan exists (harness prompted — system addendum asks for ≤`maxPlans` (3) alternative plans as structured JSON when ambiguity is high; default elicitation `on-demand`).
 - **One choice question per plan set:** `state = {task brief, x, T}`; options = plan summaries (≤8; Jev handles 255 natively, Laya caps ~20 at defaults — the cap protects the local path); `criteria` = "Which plan is most likely to complete the task correctly with the least wasted work?"
 - **Normalize probabilities server-side** (Jev invariants not guaranteed, §1.2).
-- **Attempt controller:** execute in probability order; verification oracle = harness-native (tests / build / exit criteria per benchmark); attempt cap m=2; on success, discard remaining plans and log saved-token estimate; abstain (confidence < 0.5) → keep the LLM's own order.
+- **Attempt controller:** execute in probability order; verification oracle = harness-native (tests / build / exit criteria per benchmark); attempt cap **M=2** (candidate plans m ≤ 3); on success, discard remaining plans and log saved-token estimate; abstain (confidence < 0.5) → keep the LLM's own order.
 - Always log per-plan `{prob, confidence, executed, verified, tokensSpent}`.
 
 ### 5.5 Degradation & safety

diff --git a/docs/FORMULAS.zh.md b/docs/FORMULAS.zh.md
@@ -39,7 +39,9 @@ $$
 
 固定集 $P$（system/tool schema）不进入 $S$。每新分片 $p$ 触发关联图更新（§2）。
 
-## 2. 关联图（两级召回 + 惰性验证）
+## 2. 关联图（S1 关联计算后端：两级召回 + 惰性验证）
+
+本节全部 S1 调用由 **S1 关联计算后端**承担；它与 §4 的 **S1 决策后端**是两个独立角色（可指向同一 `/v1/systemone` 部署，也可分开部署/用不同模型）。
 
 **Tier-0（元数据，免费）**：同任务标签、同工具族、回复链——固定权重 $w_0 = 0.6$。
 
@@ -128,7 +130,7 @@ $$
 \sum_{h \in R'} \mathrm{tok}(h) < \mu \rho B \implies \text{退化为近因窗口（chronological last-}N\text{），记录降级事件}
 $$
 
-## 4. 方案闸门（PLAN GATE，因子 S1G 开）
+## 4. 方案闸门（S1 决策后端 + PLAN GATE，因子 S1G 开）
 
 LLM 产出方案集 $\Pi = \{\pi_1,\dots,\pi_m\}$（$m \le 3$），一次 choice 问询返回概率 $p_i$ 与置信度 $\mathrm{conf}_i$。**服务端归一**（Jev 不保证 $\sum p_i = 1$）：
 
